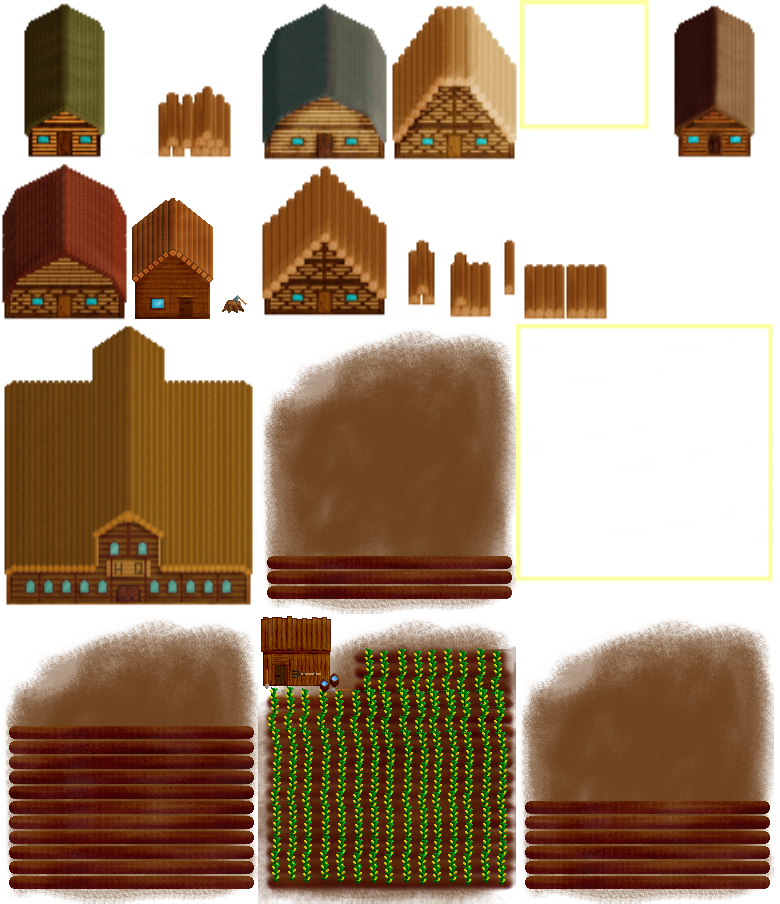
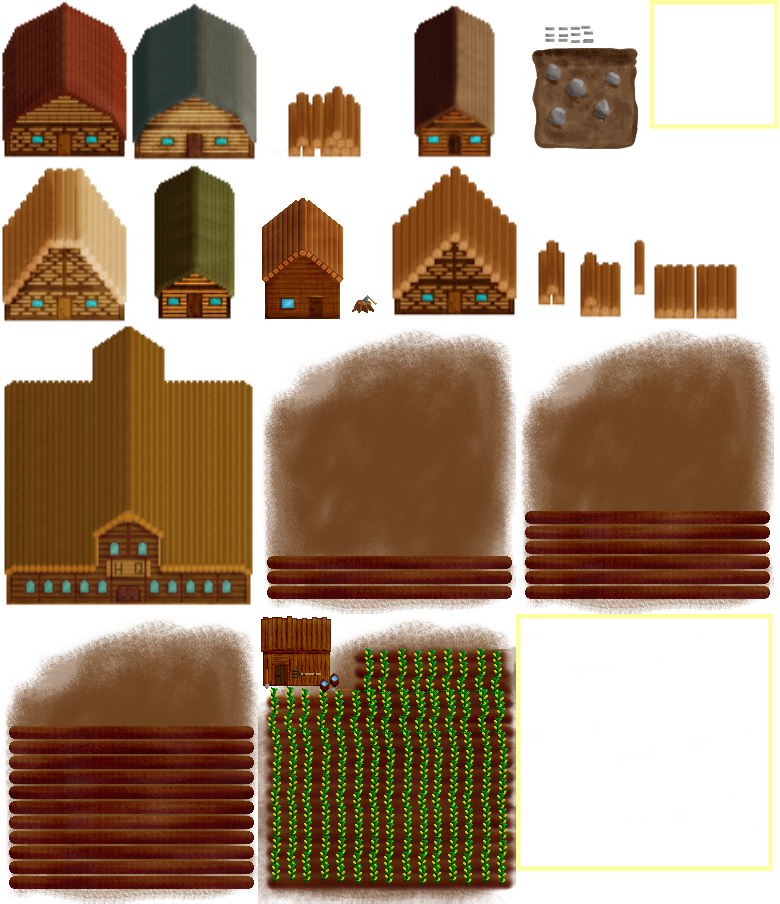
Added Quarry

diff --git a/crown/Controls/BuildingOperations.cs b/crown/Controls/BuildingOperations.cs
@@ -1,6 +1,7 @@
 using crown.Buildings;
 using crown.Terrain;
 using Microsoft.Xna.Framework;
+using System;
 using System.Collections.Generic;
 using TexturePackerLoader;
 using static crown.Game1;
@@ -73,7 +74,14 @@ namespace crown {
 
                 // Unlocks the first menu tier
                 MenuBuilder.MenuTierOne();
-                BuildingOperations.RemoveIntersectingTrees(rectangle);
+                RemoveIntersectingTrees(rectangle);
+            }
+        }
+
+        internal static void BuildQuarry(Tile tile, Building.BuildingTypes type, Costs costs) {
+            foreach (Interactive inter in interactives) {
+                if (inter.Type == Interactive.IntType.STONE && inter.Rect.Contains(tile.Rect))
+                    BuildSmallBuilding(tile, type, Costs.QuarryCosts());
             }
         }
 
@@ -83,9 +91,9 @@ namespace crown {
             int tilePosX = (tile.Rect.X) / tileSize + 1;
             int tilePosY = (tile.Rect.Y) / tileSize + 1;
 
-            isAllowed = BuildingOperations.CheckIntersections(isAllowed, rectangle);
-            isAllowed = BuildingOperations.IsBesidesRoad(isAllowed, rectangle, false);
-            isAllowed = BuildingOperations.CheckCosts(costs, isAllowed);
+            isAllowed = CheckIntersections(isAllowed, rectangle);
+            isAllowed = IsBesidesRoad(isAllowed, rectangle, false);
+            isAllowed = CheckCosts(costs, isAllowed);
 
             if (tile.Type.Contains("grass")
                 && tileMap[tilePosX, tile.Rect.Y / tileSize].IsClear
@@ -106,7 +114,7 @@ namespace crown {
                 tileMap[tile.Rect.X / tileSize, tilePosY].IsClear = false;
                 tile.IsClear = false;
 
-                BuildingOperations.RemoveIntersectingTrees(rectangle);
+                RemoveIntersectingTrees(rectangle);
             }
         }
 
@@ -114,13 +122,14 @@ namespace crown {
             bool isAllowed = true;
             Rectangle rectangle = new Rectangle(tile.Rect.X, tile.Rect.Y, tileSize, tileSize);
 
-            isAllowed = BuildingOperations.CheckIntersections(isAllowed, rectangle);
-            isAllowed = BuildingOperations.IsBesidesRoad(isAllowed, rectangle, true);
-            isAllowed = BuildingOperations.CheckCosts(costs, isAllowed);
+            if (type != Building.BuildingTypes.QUARRY)
+                isAllowed = CheckIntersections(isAllowed, rectangle);
+            isAllowed = IsBesidesRoad(isAllowed, rectangle, true);
+            isAllowed = CheckCosts(costs, isAllowed);
 
             if (tile.Type.Contains("grass")
               && isAllowed
-              && tile.IsClear == true) {
+              && (tile.IsClear == true || type == Building.BuildingTypes.QUARRY)) {
                 mechanics.Buildings.Add(GetSmallBuilding(buildingTileSheet.Sprite(TexturePackerMonoGameDefinitions.buildingAtlas.SmallSelect)
                                       , new Vector2(tile.Rect.X, tile.Rect.Y)
                                       , rectangle
@@ -128,7 +137,7 @@ namespace crown {
                                       , costs));
                 tile.IsClear = false;
 
-                BuildingOperations.RemoveIntersectingTrees(rectangle);
+                RemoveIntersectingTrees(rectangle);
             }
         }
 
@@ -144,6 +153,8 @@ namespace crown {
                 return new House(spriteFrame, pos, rect, type, costs);
             if (type == Building.BuildingTypes.WOODCUTTER)
                 return new Woodcutter(spriteFrame, pos, rect, type, costs);
+            if (type == Building.BuildingTypes.QUARRY)
+                return new Quarry(spriteFrame, pos, rect, type, costs);
 
             return null;
         }

diff --git a/crown/Buildings/Costs.cs b/crown/Buildings/Costs.cs
@@ -1,4 +1,6 @@
-namespace crown {
+using System;
+
+namespace crown {
     public class Costs {
 
         public static Costs HouseCosts() {
@@ -21,7 +23,7 @@
                              -10,    // Workers
                              0,     // Population
                              0,     // Food
-                             -10,     // GoldUpkeep
+                             -5,     // GoldUpkeep
                              20,     // WoodUpkeep
                              0,     // StoneUpkeep
                              0);    // FoodUpkeep
@@ -34,10 +36,23 @@
                              -10,    // Workers
                              0,     // Population
                              0,     // Food
-                             -10,     // GoldUpkeep
+                             -5,     // GoldUpkeep
                              0,     // WoodUpkeep
                              0,     // StoneUpkeep
                              30);    // FoodUpkeep
+        }
+
+        public static Costs QuarryCosts() {
+            return new Costs(0,     // Stone 
+                             -20,    // Wood
+                             -50,   // Gold
+                             -30,     // Workers
+                             0,     // Population
+                             0,     // Food
+                             -30,     // GoldUpkeep
+                             -1,     // WoodUpkeep
+                             5,     // StoneUpkeep
+                             0);   // FoodUpkeep
         }
 
         int stone;
@@ -75,5 +90,6 @@
         public int WoodUpkeep { get => woodUpkeep; set => woodUpkeep = value; }
         public int StoneUpkeep { get => stoneUpkeep; set => stoneUpkeep = value; }
         public int FoodUpkeep { get => foodUpkeep; set => foodUpkeep = value; }
+
     }
 }

diff --git a/crown/Buildings/Quarry.cs b/crown/Buildings/Quarry.cs
@@ -1,0 +1,40 @@
+using Microsoft.Xna.Framework;
+using TexturePackerLoader;
+using static crown.Game1;
+
+namespace crown.Buildings {
+    class Quarry : Building {
+
+        public Quarry(SpriteFrame spriteFrame, Vector2 position, Rectangle rect, BuildingTypes type, Costs costs) : base(spriteFrame, position, rect, type, costs) {
+        }
+
+        public override void Update() {
+            if (BuildingState == 4) {
+                // People move in and are ready to work
+                Initialize();
+                BuildingState = 5;
+            } else if (BuildingState == 5) {
+
+                // Update resources
+                if (ActionTick > 5) {
+
+                    ActionTick = 0;
+                }
+
+                ActionTick++;
+            }
+        }
+
+        public override void UpdateSprite() {
+            if (BuildingState == 0)
+                SpriteFrame = buildingTileSheet.Sprite(TexturePackerMonoGameDefinitions.buildingAtlas.House0);
+            if (BuildingState == 1)
+                SpriteFrame = buildingTileSheet.Sprite(TexturePackerMonoGameDefinitions.buildingAtlas.House1);
+            if (BuildingState == 2)
+                SpriteFrame = buildingTileSheet.Sprite(TexturePackerMonoGameDefinitions.buildingAtlas.House2);
+            if (BuildingState == 3)
+                SpriteFrame = buildingTileSheet.Sprite(TexturePackerMonoGameDefinitions.buildingAtlas.Quarry);
+        }
+
+    }
+}

diff --git a/crown/Controls/MenuBuilder.cs b/crown/Controls/MenuBuilder.cs
@@ -67,6 +67,15 @@ namespace crown {
             buttonStorage.Type = Button.ButtonType.BUTTON_STORAGE;
             buttonStorage.SpriteFrame = menuTileSheet.Sprite(TexturePackerMonoGameDefinitions.menuAtlas.Buttonstorage);
             menuButtons.Add(buttonStorage);
+
+            xPos += xOffset;
+
+            Button buttonQuarry = new Button();
+            buttonQuarry.Pos = new Vector2(xPos, yPos);
+            buttonQuarry.Rect = new Rectangle(xPos, yPos, (int)menuTileSheet.Sprite(TexturePackerMonoGameDefinitions.menuAtlas.Buttonfarmland).Size.X, (int)menuTileSheet.Sprite(TexturePackerMonoGameDefinitions.menuAtlas.Buttonfarmland).Size.Y);
+            buttonQuarry.Type = Button.ButtonType.BUTTON_QUARRY;
+            buttonQuarry.SpriteFrame = menuTileSheet.Sprite(TexturePackerMonoGameDefinitions.menuAtlas.Buttonstorage);
+            menuButtons.Add(buttonQuarry);
         }
 
     }

diff --git a/crown/SpriteSheets/buildingAtlas.cs b/crown/SpriteSheets/buildingAtlas.cs
@@ -4,7 +4,7 @@
  * Contains references to each image within the sprite sheet.
  *
  * http://www.codeandweb.com/texturepacker
- * $TexturePacker:SmartUpdate:89990885698613abe9e0941cc5dedf66:8fd075a2104b32efa374d43c62638788:905072b72ea92acf8fa5b0216a681f3c$
+ * $TexturePacker:SmartUpdate:a16777abdbeb0a4d11603705e89cb2c3:6cf66f83230fe79a0c79dbd8865472a0:905072b72ea92acf8fa5b0216a681f3c$
  *
  */
 namespace TexturePackerMonoGameDefinitions
@@ -25,6 +25,7 @@ namespace TexturePackerMonoGameDefinitions
 		public const string House7 = "house7";
 		public const string House8 = "house8";
 		public const string LargeSelect = "largeSelect";
+		public const string Quarry = "quarry";
 		public const string SmallSelect = "smallSelect";
 		public const string Townhall = "townhall";
 		public const string Woodcutter4 = "woodcutter4";

diff --git a/crown/Game1.cs b/crown/Game1.cs
@@ -44,7 +44,7 @@ namespace crown {
         // Which action is the mouse currently doing
         public enum MouseAction {
             FARM, HOUSE, TOWNHALL, NOTHING, ROAD,
-            WOODCUTTER
+            WOODCUTTER, QUARRY, STORAGE, SCIENTIST
         }
 
         public MouseAction mouseAction = MouseAction.NOTHING;
@@ -204,6 +204,8 @@ namespace crown {
                         mouseAction = MouseAction.FARM;
                     else if (button.Type == Button.ButtonType.BUTTON_WOODCUTTER)
                         mouseAction = MouseAction.WOODCUTTER;
+                    else if (button.Type == Button.ButtonType.BUTTON_QUARRY)
+                        mouseAction = MouseAction.QUARRY;
                 }
         }
 

diff --git a/crown/Drawing.cs b/crown/Drawing.cs
@@ -26,7 +26,7 @@ namespace crown {
 
             if (mouseAction == MouseAction.TOWNHALL || mouseAction == MouseAction.FARM)
                 spriteframe = buildingTileSheet.Sprite(TexturePackerMonoGameDefinitions.buildingAtlas.LargeSelect);
-            if (mouseAction == MouseAction.HOUSE || mouseAction == MouseAction.ROAD || mouseAction == MouseAction.WOODCUTTER)
+            if (mouseAction == MouseAction.HOUSE || mouseAction == MouseAction.ROAD || mouseAction == MouseAction.WOODCUTTER || mouseAction == MouseAction.QUARRY)
                 spriteframe = buildingTileSheet.Sprite(TexturePackerMonoGameDefinitions.buildingAtlas.SmallSelect);
 
             foreach (Tile tile in tileMap)

diff --git a/crown/Controls/Controls.cs b/crown/Controls/Controls.cs
@@ -30,6 +30,9 @@ namespace crown {
                     if (mouseAction == MouseAction.WOODCUTTER) {
                         BuildingOperations.BuildSmallBuilding(tile, Building.BuildingTypes.WOODCUTTER, Costs.WoodcutterCosts());
                     }
+                    if (mouseAction == MouseAction.QUARRY) {
+                        BuildingOperations.BuildQuarry(tile, Building.BuildingTypes.QUARRY, Costs.WoodcutterCosts());
+                    }
                     if (mouseAction == MouseAction.ROAD) {
                         BuildingOperations.BuildRoad(tile, false);
                     }

diff --git a/crown/Buildings/Building.cs b/crown/Buildings/Building.cs
@@ -25,6 +25,8 @@ namespace crown {
             HOUSE,
             WOODCUTTER,
             FARM,
+            QUARRY,
+            SCIENTIST,
             STORAGE
         };
 
@@ -44,6 +46,7 @@ namespace crown {
             mechanics.GoldDelta += Costs.GoldUpkeep;
             mechanics.FoodDelta += Costs.FoodUpkeep;
             mechanics.WoodDelta += Costs.WoodUpkeep;
+            mechanics.StoneDelta += Costs.StoneUpkeep;
 
             if (Type == BuildingTypes.HOUSE)
                 mechanics.Workers += costs.Workers;

diff --git a/crown/Controls/Button.cs b/crown/Controls/Button.cs
@@ -15,7 +15,7 @@ namespace crown {
         public SpriteFrame SpriteFrame { get => spriteFrame; set => spriteFrame = value; }
 
         public enum ButtonType {
-            MAIN, BUTTON_HOUSE, BUTTON_TOWNHALL, BUTTON_FARMLAND, BUTTON_ROAD, BUTTON_FARM, BUTTON_WOODCUTTER, BUTTON_STORAGE
+            MAIN, BUTTON_HOUSE, BUTTON_TOWNHALL, BUTTON_FARMLAND, BUTTON_ROAD, BUTTON_FARM, BUTTON_WOODCUTTER, BUTTON_STORAGE, BUTTON_QUARRY
         }
 
 
